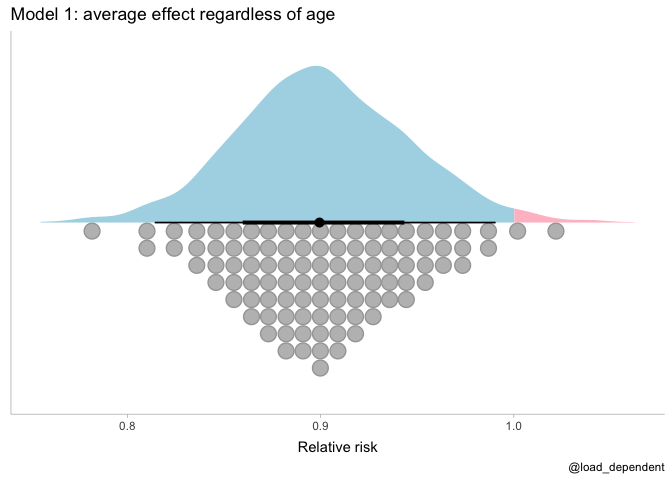
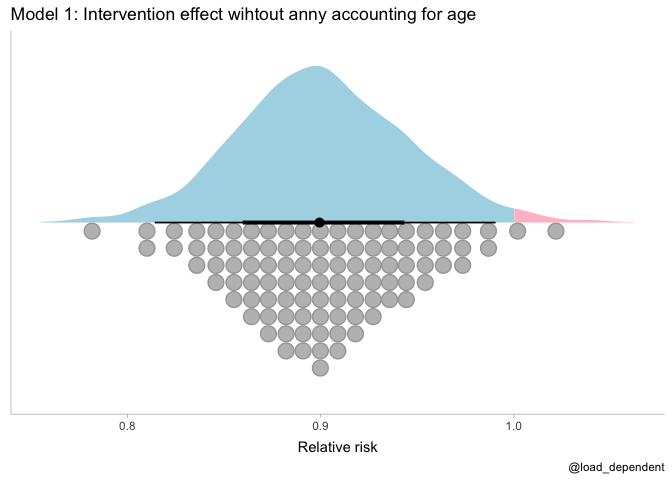
fixed plot 1

Changed region(s): [[0.125, 0.0, 0.7188, 0.0625]]

diff --git a/README.md b/README.md
@@ -454,7 +454,7 @@ df %>%
   theme(legend.position = "none",axis.title.y=element_blank(),
         axis.text.y=element_blank(),
         axis.ticks.y=element_blank())+
-  labs(title = "Model 1: average effect regardless of age",
+  labs(title = "Model 1: Intervention effect wihtout anny accounting for age",
        caption = "@load_dependent")
 ```
 
